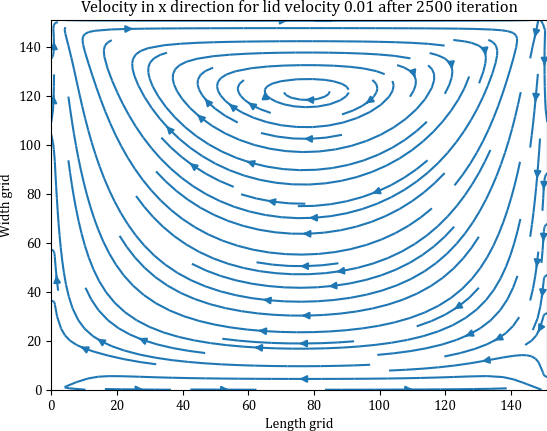
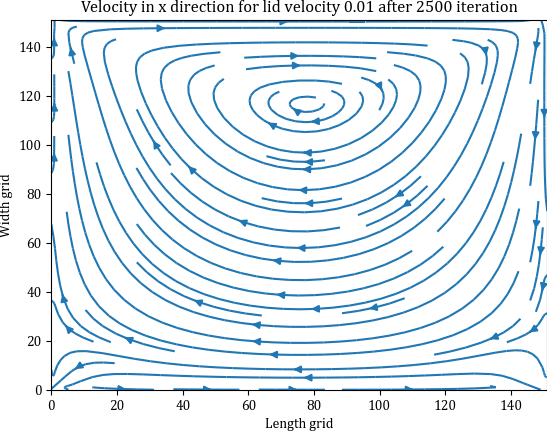
SLiding_lid and Couette updated

Changed region(s): [[0.0932, 0.0302, 1.0, 0.9049]]

diff --git a/lbm_common/boundary.py b/lbm_common/boundary.py
@@ -65,10 +65,9 @@ def periodic_boundary_with_pressure_variations(f,rho_in,rho_out):
 def sliding_bounce_back(f,lid_vel,velocity):    
 
     """Bounce back and lid velocity exerted here"""
-    rho_wall = (2 * (f[-1, :, 6] + f[-1, :, 2] + f[-1, :, 5]) + f[-1, :, 3] + f[-1, :, 0] + f[-1, :, 1])/(1+velocity[-1,:,1])
-    max_size_x = f.shape[1]-1  # x
-    max_size_y = f.shape[0]-1  # y
-    velocity = np.zeros((f.shape[0],f.shape[1],2))
+    rho_wall = (2 * (f[-1, 1:-1, 6] + f[-1, 1:-1, 2] + f[-1, 1:-1, 5]) + f[-1, 1:-1, 3] + f[-1, 1:-1, 0] + f[-1, 1:-1, 1])/(1+velocity[-1,1:-1,1])
+   
+    velocity[-1,:,1] = lid_vel
     
     # Test top + bottom
     # Bottom
@@ -77,8 +76,8 @@ def sliding_bounce_back(f,lid_vel,velocity):
     f[1,1:-1,6] = f[0,1:-1,8]
     # Top
     f[-2,1:-1,4] = f[-1,1:-1,2]
-    f[-2,1:-1,7] = f[-1,1:-1,5] - 1/6 * lid_vel
-    f[-2,1:-1,8] = f[-1,1:-1,6] + 1/6 * lid_vel
+    f[-2,1:-1,7] = f[-1,1:-1,5] - 1/2 *  rho_wall *  lid_vel
+    f[-2,1:-1,8] = f[-1,1:-1,6] + 1/2 *  rho_wall *  lid_vel
     # Test Right
     f[1:-1,1,1] = f[1:-1,0,3]
     f[1:-1,1,5] = f[1:-1,0,7]
@@ -87,23 +86,6 @@ def sliding_bounce_back(f,lid_vel,velocity):
     f[1:-1,-2,3] = f[1:-1,-1,1]
     f[1:-1,-2,6] = f[1:-1,-1,8]
     f[1:-1,-2,7] = f[1:-1,-1,5]
-
-    # # for right wall
-    # f[:,-2,6] = f[:,-1,5]
-    # f[:,-2,3] = f[:,-1,1]
-    # f[:,-2,7] = f[:,-1,8]
-    # f[:,-1,5] = 0
-    # f[:,-1,1] = 0
-    # f[:,-1,8] = 0
-
-    # # for left wall
-    # f[:,1,5] = f[:,0,6]
-    # f[:,1,1] = f[:,0,3]
-    # f[:,1,8] = f[:,0,7]
-    # f[:,0,6] = 0
-    # f[:,0,3] = 0
-    # f[:,0,7] = 0
-
 
 
     return f

diff --git a/init.py b/init.py
@@ -56,6 +56,6 @@ def experiment_type(type):
 """Define the experiemnt  category"""
 if __name__ == "__main__":
     # 'shear_wave', 'couette_flow', 'poiseuille_flow', 'sliding_lid'
-    experiment_type("sliding_lid")
+    experiment_type("couette_flow")
 # if(__name__ == "__main__"):
 #     sliding_lid.sliding_lid_simulation(150, 150, 1, 'results', 500, 10000, 0.01)
